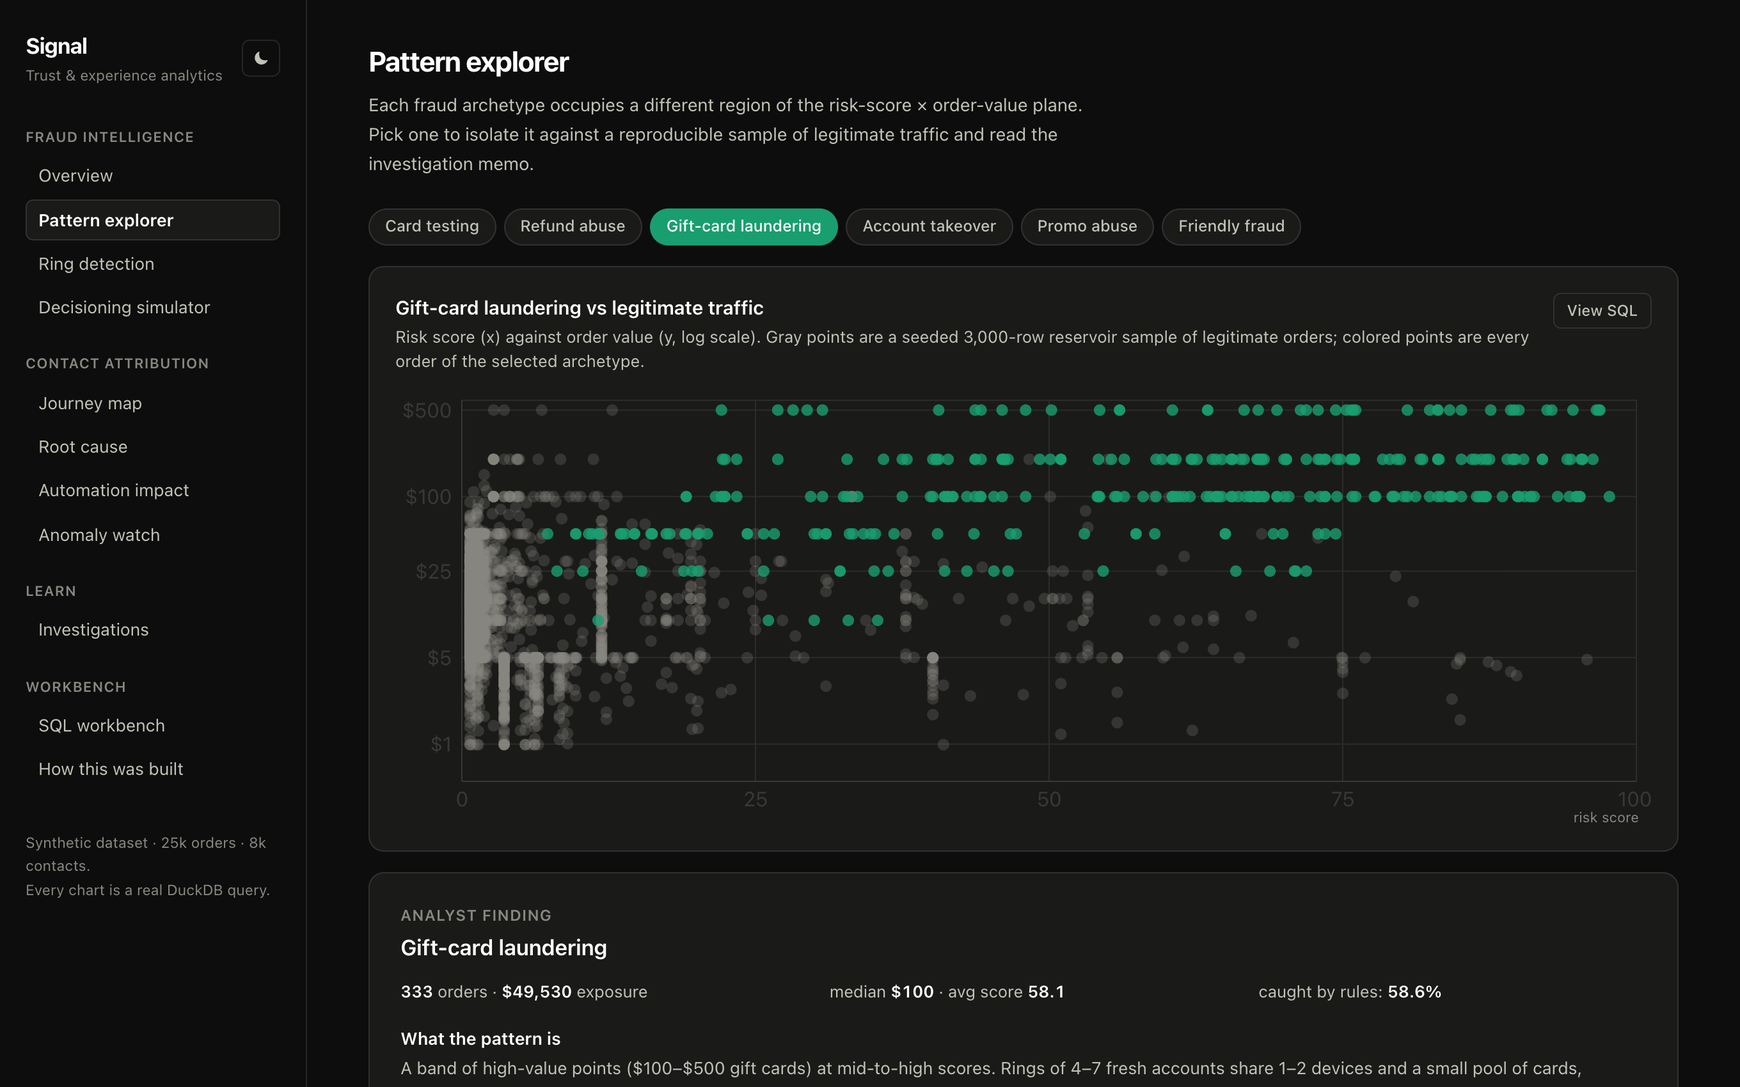
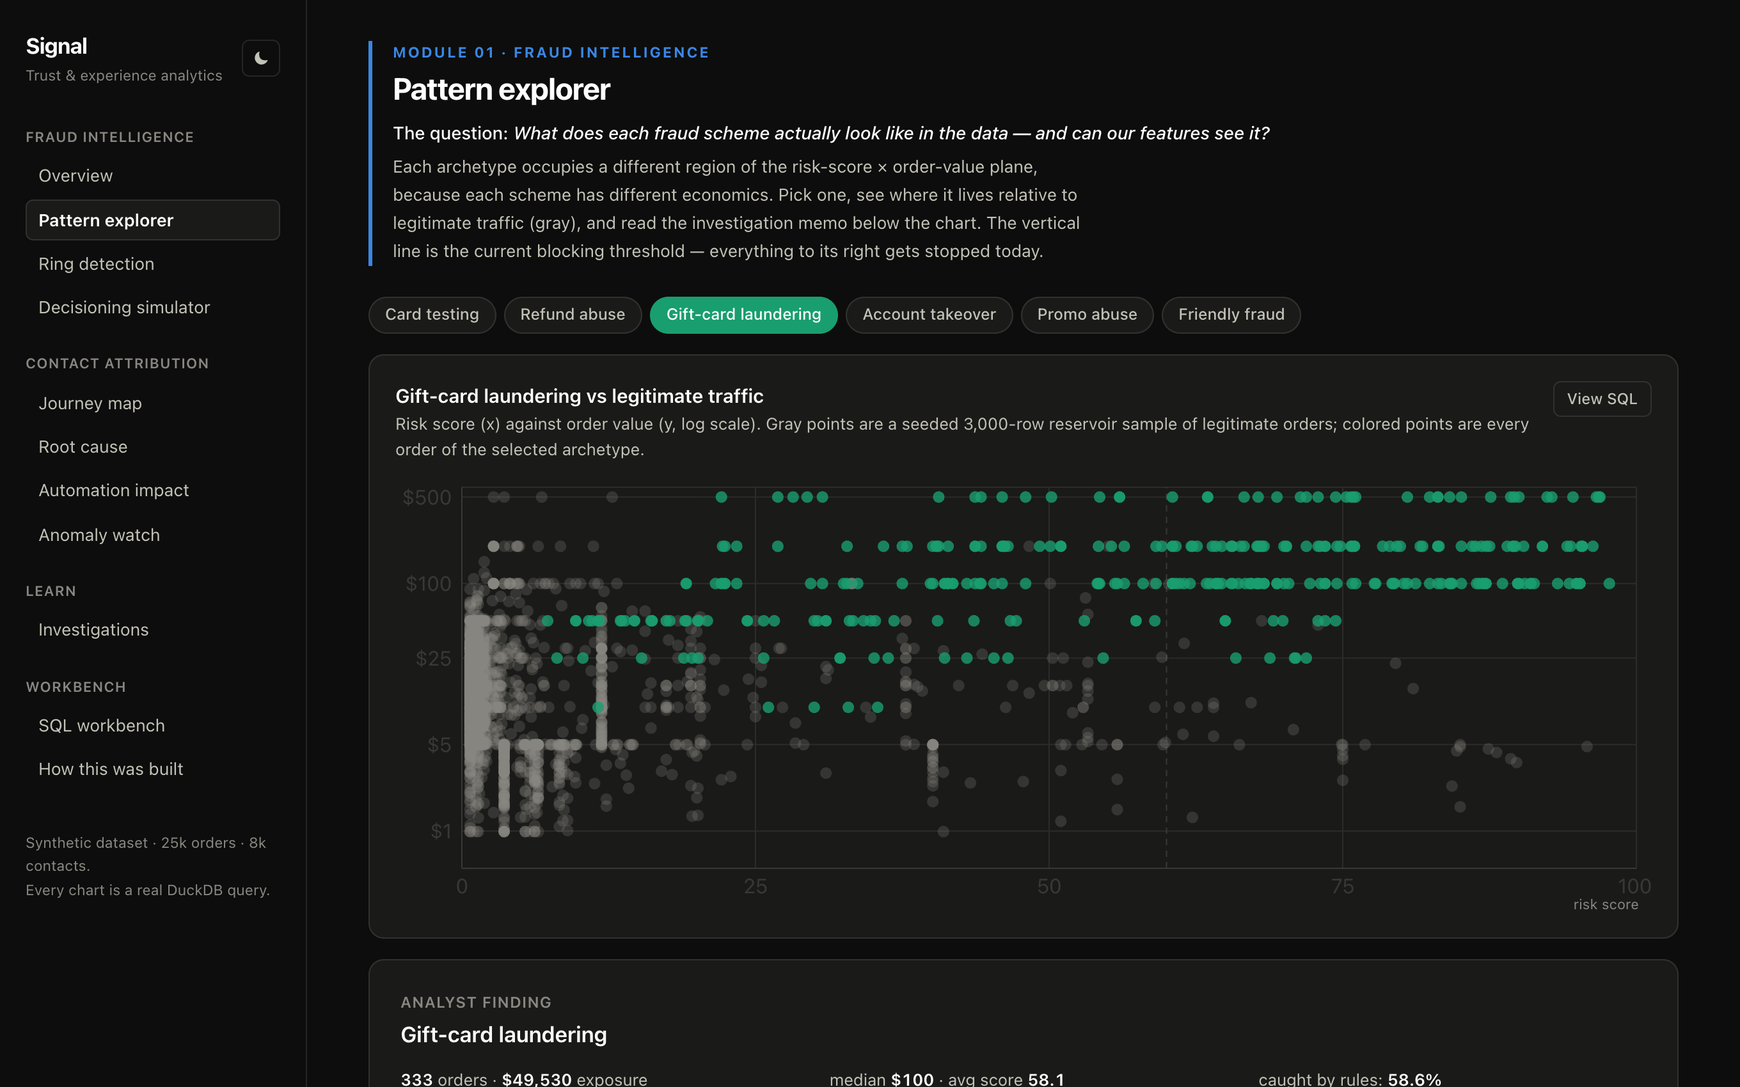
Add narrative layer: hero intro, per-page questions, chart takeaways
Every page now opens with its module identity and the question it answers;
every major chart closes with an explicit one-sentence takeaway; the trend
charts carry annotated regions (card-testing wave, holiday peak) and the
pattern scatter shows the live blocking threshold.

diff --git a/web/src/pages/Overview.tsx b/web/src/pages/Overview.tsx
@@ -1,3 +1,4 @@
+import { Link } from 'react-router-dom'
 import {
   Bar,
   BarChart,
@@ -5,6 +6,7 @@ import {
   Cell,
   Line,
   LineChart,
+  ReferenceArea,
   ResponsiveContainer,
   Tooltip,
   XAxis,
@@ -36,9 +38,51 @@ export function Overview() {
 
   return (
     <div className="space-y-4">
+      <section
+        className="rounded-2xl border border-line p-6 sm:p-8"
+        style={{
+          background:
+            'linear-gradient(120deg, color-mix(in srgb, var(--s1) 10%, var(--surface)), var(--surface) 55%, color-mix(in srgb, var(--s2) 7%, var(--surface)))',
+        }}
+      >
+        <p className="text-[11.5px] font-bold uppercase tracking-[0.14em] text-[var(--s1)]">
+          Signal · an analyst portfolio, running live in your browser
+        </p>
+        <h1 className="mt-2 max-w-[36rem] text-[26px] font-bold leading-tight tracking-tight text-ink sm:text-[30px]">
+          One store. Two lenses. Every fraud decision has a customer-experience price —
+          this app measures both sides.
+        </h1>
+        <p className="mt-3 max-w-[42rem] text-[14px] leading-relaxed text-ink-2">
+          A synthetic digital-goods store: 25,000 orders seeded with six fraud schemes, and 8,000
+          support contacts — including the ones our own fraud rules cause. Everything on every page
+          is a real SQL query running against an in-browser database; press{' '}
+          <span className="font-semibold text-ink">View SQL</span> on any chart to see it.
+        </p>
+        <div className="mt-5 flex flex-wrap gap-2">
+          {[
+            { to: '/simulator', label: 'Move a fraud threshold, watch the CX cost' },
+            { to: '/patterns', label: 'Read an investigation memo' },
+            { to: '/learn', label: 'Solve a case yourself' },
+            { to: '/sql', label: 'Query the data directly' },
+          ].map((t, i) => (
+            <Link
+              key={t.to}
+              to={t.to}
+              className="rounded-full border border-line bg-surface px-3.5 py-1.5 text-[12.5px] font-medium text-ink-2 transition-colors hover:border-[var(--s1)] hover:text-ink"
+            >
+              <span className="tnum mr-1.5 font-bold text-[var(--s1)]">{i + 1}</span>
+              {t.label}
+            </Link>
+          ))}
+        </div>
+      </section>
+
       <PageHeader
         title="Fraud intelligence · Overview"
-        lede="Twelve months of a synthetic digital-goods storefront: subscriptions, in-app purchases, downloads and gift cards. Ground-truth fraud labels exist because the data is generated — which lets every rule and score be judged honestly."
+        kicker="Module 01 · Fraud intelligence"
+        accent="var(--s1)"
+        question="How much fraud is there, what does it cost, and are the current rules pointed at the right part of it?"
+        lede="Twelve months of orders with ground-truth fraud labels — a luxury only synthetic data has, and what lets every rule on these pages be judged honestly instead of anecdotally."
       />
 
       <KpiRow>
@@ -69,10 +113,18 @@ export function Overview() {
           title="Fraud & chargeback rate by month"
           subtitle="Share of orders labeled fraud, and chargebacks as a share of approved orders."
           sql={MONTHLY_TREND}
+          takeaway="Fraud ran 11–14% through autumn 2025 — the shaded card-testing wave — then settled near 7%. The orange line lags the blue one by design: chargebacks are fraud's paper trail arriving weeks late, which is why teams that only watch chargebacks are always fighting the previous quarter's fraud."
         >
           <ResponsiveContainer width="100%" height={240}>
             <LineChart data={trend} margin={{ top: 8, right: 8, bottom: 0, left: -18 }}>
               <CartesianGrid vertical={false} />
+              <ReferenceArea
+                x1="2025-09"
+                x2="2025-11"
+                fill="var(--s1)"
+                fillOpacity={0.07}
+                label={{ value: 'card-testing wave', position: 'insideTop', fill: 'var(--muted)', fontSize: 10.5 }}
+              />
               <XAxis dataKey="month" {...AXIS_PROPS} tickFormatter={(m: string) => m.slice(2)} />
               <YAxis {...AXIS_PROPS} unit="%" />
               <Tooltip content={defaultTooltip((_k, v) => fmtPct(v, 2))} />
@@ -104,10 +156,18 @@ export function Overview() {
           title="Order volume by month"
           subtitle="Growth trend with a holiday-season peak — the denominator behind every rate."
           sql={MONTHLY_VOLUME}
+          takeaway="Volume grows ~60% across the year and spikes every December as gift cards peak. This is why every serious number on these pages is a rate, not a count — a moving denominator makes raw counts lie."
         >
           <ResponsiveContainer width="100%" height={240}>
             <BarChart data={volume} margin={{ top: 8, right: 8, bottom: 0, left: -10 }}>
               <CartesianGrid vertical={false} />
+              <ReferenceArea
+                x1="2025-12"
+                x2="2025-12"
+                fill="var(--s2)"
+                fillOpacity={0.1}
+                label={{ value: 'holiday peak', position: 'insideTop', fill: 'var(--muted)', fontSize: 10.5 }}
+              />
               <XAxis dataKey="month" {...AXIS_PROPS} tickFormatter={(m: string) => m.slice(2)} />
               <YAxis {...AXIS_PROPS} tickFormatter={(v: number) => fmtCompact(v)} />
               <Tooltip content={defaultTooltip((_k, v) => fmtInt(v))} cursor={{ fill: 'var(--grid)', opacity: 0.4 }} />
@@ -121,6 +181,7 @@ export function Overview() {
         title="Fraud mix by archetype"
         subtitle="Order counts tell one story; dollar exposure tells another. Card testing dominates volume, but laundering and account takeover carry the money."
         sql={ARCHETYPE_MIX}
+        takeaway="Card testing is 29% of fraud orders but 0.4% of the dollars; laundering and account takeover are ~90% of the dollars but under a third of the orders. Optimize the rules for the count column and you win the wrong war — which is exactly what the caught-by-rules column shows happening today."
         footnote="“Caught” = blocked by the current baseline rule, judged against ground truth. Friendly fraud is invisible at order time by construction — see the pattern explorer."
       >
         <ResponsiveContainer width="100%" height={260}>

diff --git a/web/src/pages/Automation.tsx b/web/src/pages/Automation.tsx
@@ -66,7 +66,10 @@ export function Automation() {
     <div className="space-y-4">
       <PageHeader
         title="Automation impact"
-        lede="Which contact reasons are genuinely good deflection candidates? Volume alone over-ranks broken flows that should be fixed, not deflected. The scoring here is transparent: manual volume, discounted by handle-time complexity and repeat-contact risk."
+        kicker="Module 02 · Contact attribution"
+        accent="var(--s2)"
+        question="Where should the next automation dollar go — and just as important, where should it not?"
+        lede="Volume alone over-ranks broken flows that should be fixed, not deflected. The scoring here is transparent — manual volume, discounted by handle-time complexity and repeat-contact risk — and the weights are stated so they can be argued with."
       />
 
       <ChartCard
@@ -118,7 +121,7 @@ export function Automation() {
         title="Deflection quality: does a bot resolution stick?"
         subtitle="Repeat-contact rate after an automated resolution vs after a human one, per reason (reasons with 50+ bot contacts). A deflection that generates a second contact isn't a deflection — it's a delay."
         sql={DEFLECTION_QUALITY}
-        footnote="Two findings hide in here: the refund-status bot “resolves” without giving a definitive date, so nearly half its customers come back (48% vs 30% after an agent) — while the download bot genuinely fixes the problem and beats humans (6% vs 10%). Deflection rate alone would call both bots successful."
+        takeaway="Deflection rate says both bots work. Repeat rate says otherwise: the refund bot's answers bounce back 48% of the time (vs 30% for agents) because it answers without a date, while the download bot genuinely fixes the problem and beats humans (6% vs 10%). Measure automation by whether the problem stays solved, not by whether a human was avoided."
       >
         <ResponsiveContainer width="100%" height={280}>
           <BarChart data={quality} margin={{ top: 8, right: 8, bottom: 44, left: -14 }}>

diff --git a/web/src/pages/Rings.tsx b/web/src/pages/Rings.tsx
@@ -73,7 +73,10 @@ export function Rings() {
     <div className="space-y-4">
       <PageHeader
         title="Ring detection"
-        lede="Fraud rarely happens one account at a time. Devices shared by several accounts are the cheapest linkage signal there is — one GROUP BY away. The pair-level version (a true self-join) is in the SQL Workbench examples."
+        kicker="Module 01 · Fraud intelligence"
+        accent="var(--s1)"
+        question="Which accounts are secretly the same operation — and which shared devices are just families?"
+        lede="Fraud rarely happens one account at a time: fake identities are cheap, but shared infrastructure is what makes a ring's economics work — and it leaves a join key. Devices shared by several accounts are the cheapest linkage signal there is, one GROUP BY away. The pair-level version (a true self-join) is in the SQL Workbench examples."
       />
 
       <div className="grid gap-4 lg:grid-cols-[1fr_340px]">
@@ -81,6 +84,7 @@ export function Rings() {
           title="Devices hosting 3+ accounts"
           subtitle="Every device fingerprint shared by at least three customer accounts, with volume and ground-truth fraud share."
           sql={RING_DEVICES}
+          takeaway="Account count finds the clusters; instruments and account age tell you what they are. The 100%-fraud rows cycle many payment cards through fresh accounts — the sub-40% rows are households: few instruments, aged accounts. Same volume signal, opposite conclusion."
           footnote="Not every shared device is a ring: the sub-40% fraud rows toward the bottom are shared family computers and the occasional cyber-café pattern — which is exactly why account-per-device count alone should feed a score, not a hard block."
         >
           <div className="overflow-x-auto">

diff --git a/web/src/pages/Journey.tsx b/web/src/pages/Journey.tsx
@@ -46,7 +46,10 @@ export function Journey() {
     <div className="space-y-4">
       <PageHeader
         title="Journey map"
-        lede="Where 8,000 support contacts land across the purchase journey, and how well automation holds at each stage. Volume alone is a bad prioritization signal — pair it with automation rate and handle time."
+        kicker="Module 02 · Contact attribution"
+        accent="var(--s2)"
+        question="Where in the customer journey does support demand come from, and where does automation actually hold?"
+        lede="Where 8,000 support contacts land across the purchase journey, and how well automation holds at each stage. Volume alone is a bad prioritization signal — pair it with automation rate and handle time and the picture inverts."
       />
 
       <div className="grid grid-cols-2 gap-3 lg:grid-cols-4">
@@ -74,7 +77,7 @@ export function Journey() {
         title="Stage volume and automation coverage"
         subtitle="Contacts per journey stage; bar shade shows how much automation currently absorbs."
         sql={JOURNEY_STAGES}
-        footnote="Checkout and refund are where automation is weakest — and both are dominated by reasons the store causes itself: payment declines, promo errors, and fraud-rule lockouts. See Root cause."
+        takeaway="Post-purchase has the most contacts but the best automation. Checkout and refund are the opposite: lower volume, weakest automation, longest handling — because they are dominated by broken flows (declines, promo errors, fraud-rule lockouts), and bots can't resolve what's actually broken. Fix-the-flow beats train-the-bot at these two stages."
       >
         <ResponsiveContainer width="100%" height={220}>
           <BarChart data={stages} margin={{ top: 8, right: 8, bottom: 0, left: -10 }}>

diff --git a/web/src/pages/RootCause.tsx b/web/src/pages/RootCause.tsx
@@ -40,13 +40,17 @@ export function RootCause() {
     <div className="space-y-4">
       <PageHeader
         title="Root cause attribution"
-        lede="What is actually driving contacts? A Pareto view, then the attribution the volume chart can't show you: a chunk of these contacts are self-inflicted — generated by our own fraud rules blocking legitimate customers."
+        kicker="Module 02 · Contact attribution"
+        accent="var(--s2)"
+        question="What is actually generating support contacts — and how much of it are we doing to ourselves?"
+        lede="A Pareto view first, then the attribution a volume chart can't show you: a measurable slice of these contacts is self-inflicted, generated by our own fraud rules blocking legitimate customers. That linkage — contacts joined back to the orders that caused them — is the analytical heart of this whole project."
       />
 
       <ChartCard
         title="Contact drivers, Pareto view"
         subtitle="Bars: share of all contacts per reason. Line: cumulative share — the top 5 reasons cover well over half of everything."
         sql={PARETO}
+        takeaway="The top five reasons cover ~60% of volume, but rank-by-volume is a trap: the biggest categories (downloads, refunds) are already half-automated, while the fixable defects — lockouts, checkout errors, promo failures — sit mid-table quietly costing the most per contact."
       >
         <ResponsiveContainer width="100%" height={300}>
           <ComposedChart data={rows} margin={{ top: 8, right: 8, bottom: 44, left: -12 }}>

diff --git a/web/src/pages/Patterns.tsx b/web/src/pages/Patterns.tsx
@@ -1,6 +1,7 @@
 import { useMemo, useState } from 'react'
 import {
   CartesianGrid,
+  ReferenceLine,
   ResponsiveContainer,
   Scatter,
   ScatterChart,
@@ -105,7 +106,10 @@ export function Patterns() {
     <div className="space-y-4">
       <PageHeader
         title="Pattern explorer"
-        lede="Each fraud archetype occupies a different region of the risk-score × order-value plane. Pick one to isolate it against a reproducible sample of legitimate traffic and read the investigation memo."
+        kicker="Module 01 · Fraud intelligence"
+        accent="var(--s1)"
+        question="What does each fraud scheme actually look like in the data — and can our features see it?"
+        lede="Each archetype occupies a different region of the risk-score × order-value plane, because each scheme has different economics. Pick one, see where it lives relative to legitimate traffic (gray), and read the investigation memo below the chart. The vertical line is the current blocking threshold — everything to its right gets stopped today."
       />
 
       <div className="flex flex-wrap gap-1.5">
@@ -169,6 +173,7 @@ export function Patterns() {
                 )
               }}
             />
+            <ReferenceLine x={60} stroke="var(--critical)" strokeDasharray="5 4" />
             <Scatter data={legit} fill="var(--muted)" fillOpacity={0.25} shape="circle" isAnimationActive={false} />
             <Scatter data={focus} fill={ARCHETYPE_COLOR[selected]} fillOpacity={0.8} isAnimationActive={false} />
           </ScatterChart>

diff --git a/web/src/pages/AnomalyWatch.tsx b/web/src/pages/AnomalyWatch.tsx
@@ -46,6 +46,9 @@ export function AnomalyWatch() {
     <div className="space-y-4">
       <PageHeader
         title="Anomaly watch"
+        kicker="Module 02 · Contact attribution"
+        accent="var(--s2)"
+        question="When contact volume moves, how fast can we tell noise from incident — and name the cause?"
         lede="Weekly contact volume against an 8-week rolling mean, flagged at |z| ≥ 3 — all computed in SQL with window functions. Three weeks trip the alarm: two are what a naive z-score does with launch ramp and holiday seasonality, and one is a genuine incident. Click them and see which is which."
       />
 
@@ -53,6 +56,7 @@ export function AnomalyWatch() {
         title="Weekly contact volume vs rolling baseline"
         subtitle={`Solid line: weekly contacts. Dashed: trailing 8-week mean. Flagged points exceed ${Z_THRESHOLD} standard deviations — click one for the reason-level breakdown.`}
         sql={WEEKLY_ANOMALY}
+        takeaway="Three flags, one incident. The two small flags are the tax a naive z-score charges on growth and seasonality; the z = 35 monster in March is real. The skill being demonstrated isn't the alarm — it's the sixty seconds from alarm to the reason-level table below."
         footnote="The first eight weeks have no baseline yet (the window needs history) — an honest limitation of any rolling detector: it is blind at the start and slow to unlearn a shifted baseline."
       >
         <ResponsiveContainer width="100%" height={280}>

diff --git a/web/src/components/Layout.tsx b/web/src/components/Layout.tsx
@@ -124,11 +124,36 @@ export function Layout() {
   )
 }
 
-export function PageHeader({ title, lede }: { title: string; lede: string }) {
+export function PageHeader({
+  title,
+  lede,
+  kicker,
+  accent = 'var(--axis)',
+  question,
+}: {
+  title: string
+  lede: string
+  /** Module label, e.g. "Module 01 · Fraud intelligence". */
+  kicker?: string
+  /** Module accent color — gives each section a visual identity. */
+  accent?: string
+  /** The question this page exists to answer, stated outright. */
+  question?: string
+}) {
   return (
-    <header className="mb-6">
-      <h2 className="text-[22px] font-bold tracking-tight text-ink">{title}</h2>
-      <p className="mt-1.5 max-w-prose text-[14px] leading-relaxed text-ink-2">{lede}</p>
+    <header className="mb-6 border-l-[3px] pl-4" style={{ borderColor: accent }}>
+      {kicker && (
+        <p className="text-[11.5px] font-bold uppercase tracking-[0.12em]" style={{ color: accent }}>
+          {kicker}
+        </p>
+      )}
+      <h2 className="mt-0.5 text-[24px] font-bold tracking-tight text-ink">{title}</h2>
+      {question && (
+        <p className="mt-1.5 text-[14px] font-medium text-ink">
+          The question: <span className="italic">{question}</span>
+        </p>
+      )}
+      <p className="mt-1.5 max-w-prose text-[13.5px] leading-relaxed text-ink-2">{lede}</p>
     </header>
   )
 }

diff --git a/web/src/components/ChartCard.tsx b/web/src/components/ChartCard.tsx
@@ -6,6 +6,8 @@ type Props = {
   subtitle?: string
   sql: string
   children: ReactNode
+  /** The one-sentence conclusion a reader should leave with. Shown emphasized. */
+  takeaway?: ReactNode
   footnote?: string
 }
 
@@ -13,7 +15,7 @@ type Props = {
  * Every chart lives in one of these. The "View SQL" toggle reveals the exact
  * query that produced the chart — the same string that ran against DuckDB.
  */
-export function ChartCard({ title, subtitle, sql, children, footnote }: Props) {
+export function ChartCard({ title, subtitle, sql, children, takeaway, footnote }: Props) {
   const [showSql, setShowSql] = useState(false)
   return (
     <section className="rounded-xl border border-line bg-surface p-4 sm:p-5">
@@ -39,6 +41,12 @@ export function ChartCard({ title, subtitle, sql, children, footnote }: Props) {
         </div>
       )}
       {children}
+      {takeaway && (
+        <p className="mt-3 rounded-lg border-l-[3px] border-[var(--s1)] bg-[color-mix(in_srgb,var(--s1)_7%,transparent)] px-3.5 py-2.5 text-[13px] leading-relaxed text-ink">
+          <span className="font-bold text-[var(--s1)]">Takeaway&ensp;</span>
+          {takeaway}
+        </p>
+      )}
       {footnote && <p className="mt-3 text-[12px] leading-relaxed text-muted">{footnote}</p>}
     </section>
   )

diff --git a/web/src/pages/Simulator.tsx b/web/src/pages/Simulator.tsx
@@ -98,7 +98,10 @@ export function Simulator() {
     <div className="space-y-4">
       <PageHeader
         title="Mass decisioning simulator"
-        lede="The whole trade-off on three sliders. Every change re-runs a live SQL query over all 25,000 orders and scores the rule against ground truth — including the support contacts the false positives will generate."
+        kicker="Module 01 · Fraud intelligence"
+        accent="var(--s1)"
+        question="If we tighten the rules, what do we gain in caught fraud — and what do we pay in blocked customers and support load?"
+        lede="The whole trade-off on three sliders. Every change re-runs a live SQL query over all 25,000 orders and scores the rule against ground truth — including the support contacts the false positives will generate. Try dragging risk down to 40 and watch all four numbers move against each other."
       />
 
       <div className="grid gap-4 lg:grid-cols-[300px_1fr]">

diff --git a/web/src/pages/Learn.tsx b/web/src/pages/Learn.tsx
@@ -8,6 +8,8 @@ export function Learn() {
     <div className="space-y-4">
       <PageHeader
         title="Investigations"
+        kicker="Learn · guided case files"
+        accent="var(--s3)"
         lede="Guided case files that teach the analyst workflow by doing it: form a question, write the SQL, read the evidence, quantify the impact, write the finding. Your queries run against the same live dataset as every chart in this app, and each step is checked against ground truth."
       />
 

diff --git a/web/src/pages/Methods.tsx b/web/src/pages/Methods.tsx
@@ -22,6 +22,8 @@ export function Methods() {
     <div className="space-y-4">
       <PageHeader
         title="How this was built"
+        kicker="Workbench · methods & candor"
+        accent="var(--s7)"
         lede="The point of this project is the analyst workflow end to end: a reproducible Python pipeline, real SQL for every number on screen, and findings written as decisions rather than dashboards. Here is the architecture, and — just as deliberately — its limitations."
       />
 
